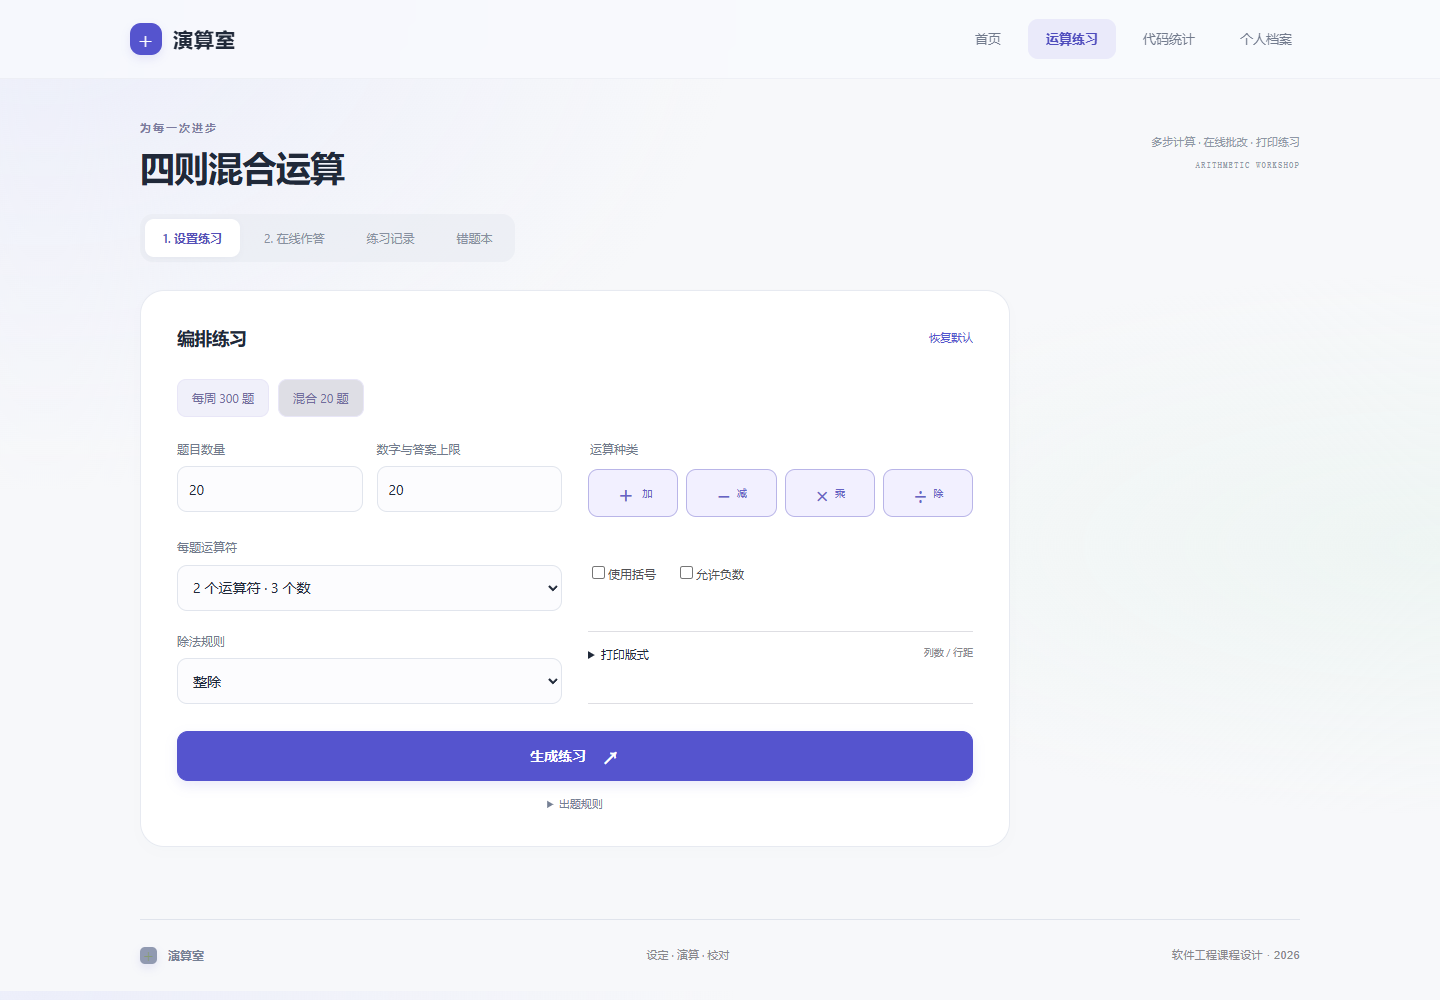
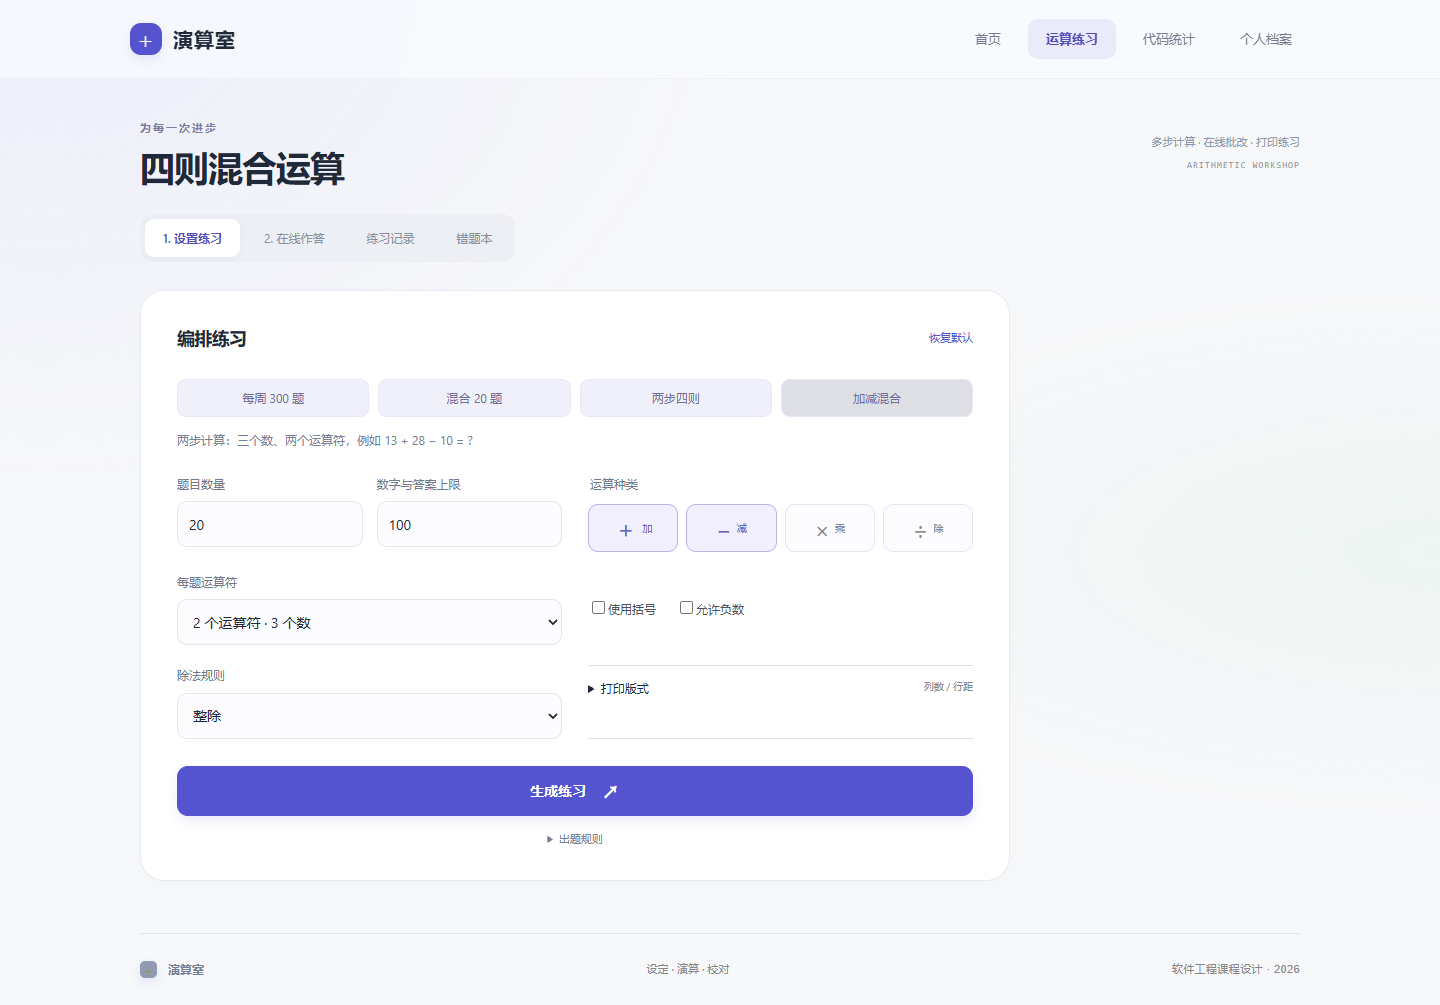
增加两步四则和加减混合快捷设置

diff --git a/web/workshop.js b/web/workshop.js
@@ -158,7 +158,7 @@ function field(label, html) {
 }
 export function workshopView() {
   const route = location.hash.slice(1) || "math";
-  return `<div class="workshop"><div class="ws-masthead"><div><p class="ws-overline">为每一次进步</p><h1>四则混合运算</h1></div><div class="ws-date">多步计算 · 在线批改 · 打印练习<br><b>ARITHMETIC WORKSHOP</b></div></div><nav class="task-nav" aria-label="运算练习页面"><a href="#math" ${route === "math" ? 'aria-current="page"' : ""}>1. 设置练习</a><a href="#math/practice" ${route === "math/practice" ? 'aria-current="page"' : ""}>2. 在线作答</a><a href="#math/history" ${route === "math/history" ? 'aria-current="page"' : ""}>练习记录</a><a href="#math/mistakes" ${route === "math/mistakes" ? 'aria-current="page"' : ""}>错题本</a></nav><div class="ws-layout"><aside class="ws-sidebar"><div class="ws-section-title"><span>01</span><h2>编排练习</h2><button id="ws-reset" type="button">恢复默认</button></div><form id="ws-settings"><div class="ws-presets"><button type="button" data-preset="week">每周 300 题</button><button type="button" data-preset="quick">混合 20 题</button></div><div class="ws-fields">${field("题目数量", `<input required type="number" name="count" min="1" max="10000" value="${settings.count}">`)}${field("数字与答案上限", `<input required type="number" name="max" min="2" max="1000" value="${settings.max}">`)}</div><fieldset class="ws-ops"><legend>运算种类</legend>${[
+  return `<div class="workshop"><div class="ws-masthead"><div><p class="ws-overline">为每一次进步</p><h1>四则混合运算</h1></div><div class="ws-date">多步计算 · 在线批改 · 打印练习<br><b>ARITHMETIC WORKSHOP</b></div></div><nav class="task-nav" aria-label="运算练习页面"><a href="#math" ${route === "math" ? 'aria-current="page"' : ""}>1. 设置练习</a><a href="#math/practice" ${route === "math/practice" ? 'aria-current="page"' : ""}>2. 在线作答</a><a href="#math/history" ${route === "math/history" ? 'aria-current="page"' : ""}>练习记录</a><a href="#math/mistakes" ${route === "math/mistakes" ? 'aria-current="page"' : ""}>错题本</a></nav><div class="ws-layout"><aside class="ws-sidebar"><div class="ws-section-title"><span>01</span><h2>编排练习</h2><button id="ws-reset" type="button">恢复默认</button></div><form id="ws-settings"><div class="ws-presets"><button type="button" data-preset="week">每周 300 题</button><button type="button" data-preset="quick">混合 20 题</button><button type="button" data-preset="twoStep">两步四则</button><button type="button" data-preset="addSubtract">加减混合</button><p class="ws-hint">两步计算：三个数、两个运算符，例如 13 + 28 − 10 = ?</p></div><div class="ws-fields">${field("题目数量", `<input required type="number" name="count" min="1" max="10000" value="${settings.count}">`)}${field("数字与答案上限", `<input required type="number" name="max" min="2" max="1000" value="${settings.max}">`)}</div><fieldset class="ws-ops"><legend>运算种类</legend>${[
     ["+", "＋", "加"],
     ["-", "−", "减"],
     ["*", "×", "乘"],
@@ -383,9 +383,16 @@ export function bindWorkshop() {
         if (busy) return;
         settings = {
           ...DEFAULT,
-          ...(b.dataset.preset === "quick"
-            ? { count: 20, max: 20, operatorCount: 2 }
-            : {}),
+          ...{
+            quick: { count: 20, max: 20, operatorCount: 2 },
+            twoStep: { count: 20, max: 100, operatorCount: 2 },
+            addSubtract: {
+              count: 20,
+              max: 100,
+              operatorCount: 2,
+              operations: ["+", "-"],
+            },
+          }[b.dataset.preset],
         };
         redraw();
       }),

diff --git a/web/workshop.css b/web/workshop.css
@@ -209,10 +209,16 @@ body {
 }
 .ws-presets {
   display: flex;
+  flex-wrap: wrap;
   gap: 8px;
   margin-bottom: 22px;
 }
+.ws-presets .ws-hint {
+  flex-basis: 100%;
+  margin: 4px 0 0;
+}
 .ws-presets button {
+  flex: 1 1 140px;
   border: 1px solid #bbb5ac;
   font-size: 11px;
   padding: 6px 9px;

diff --git a/README.md b/README.md
@@ -55,6 +55,7 @@ npm start
 运算练习分为设置、在线作答、练习记录和错题本；生成后自动进入作答页。练习题目、答案、页码及批改结果自动保存在当前浏览器，刷新后可继续。代码统计分为导入、报告、文件明细和函数明细，统计完成后自动进入报告页；报告需要保存到历史后才能跨刷新恢复。个人简介、成长记录和作品也分别展示。
 
 - 默认每周 300 题、两个运算符、加减乘除混合、100 以内；可选 1–10000 题、2–1000 数值上限和 1–3 个运算符。
+- “两步四则”和“加减混合”快捷设置为 20 题、100 以内、每题两个运算符，例如 `13 + 28 − 10 = ?`。
 - 支持括号、负数、整除、分数答案及单运算符带余数除法。选择多种运算且每题至少两个运算符时，每题保证包含至少两种运算。
 - 单份练习按完整算式去重，后台线程出题，每页 8 题；翻页保留作答。
 - 在线计时与批改、正确率、错题重练、浏览器本地成绩记录。
